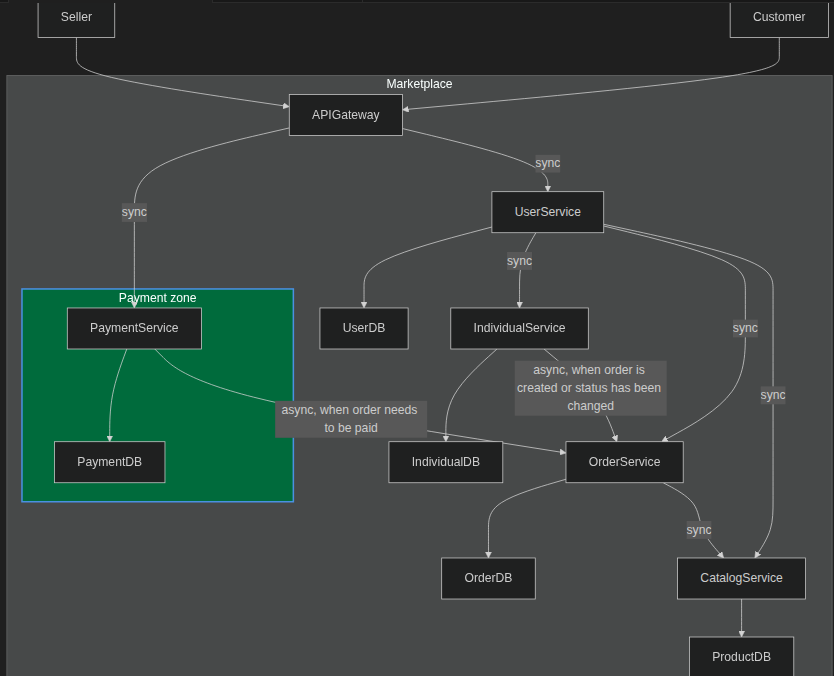
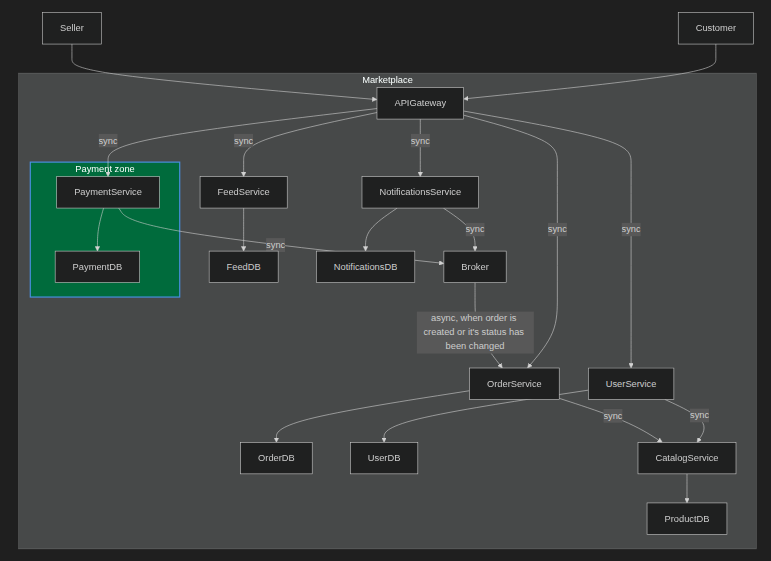
feat: changed architecture

diff --git a/diagrams/architecture.md b/diagrams/architecture.md
@@ -20,27 +20,35 @@ graph TD
 
         CatalogService
         ProductDB
-        IndividualService
-        IndividualDB
+        FeedService
+        FeedDB
+        NotificationsService
+        NotificationsDB
+
+        Broker
     end
 
     %% Relations
-    APIGateway --> |sync| PaymentService
-    PaymentService --> |async, when order needs to be paid| OrderService
-
     Customer --> APIGateway
     Seller --> APIGateway
 
+    APIGateway --> |sync| PaymentService
     APIGateway --> |sync| UserService
-    UserService --> |sync| CatalogService
-    UserService --> |sync| OrderService
-    OrderService --> |sync| CatalogService
-    UserService --> |sync| IndividualService
+    APIGateway --> |sync| OrderService
+    APIGateway --> |sync| FeedService
+    APIGateway --> |sync| NotificationsService
 
-    IndividualService --> |async, when order is created or status has been changed| OrderService
+    UserService --> |sync| CatalogService
+    OrderService --> |sync| CatalogService
+
+    PaymentService --> |sync| Broker
+    NotificationsService --> |sync| Broker
+
+    Broker --> |async, when order is created or it's status has been changed| OrderService
 
     PaymentService --> PaymentDB
-    IndividualService --> IndividualDB
+    FeedService --> FeedDB
+    NotificationsService --> NotificationsDB
     UserService --> UserDB
     CatalogService --> ProductDB
     OrderService --> OrderDB
